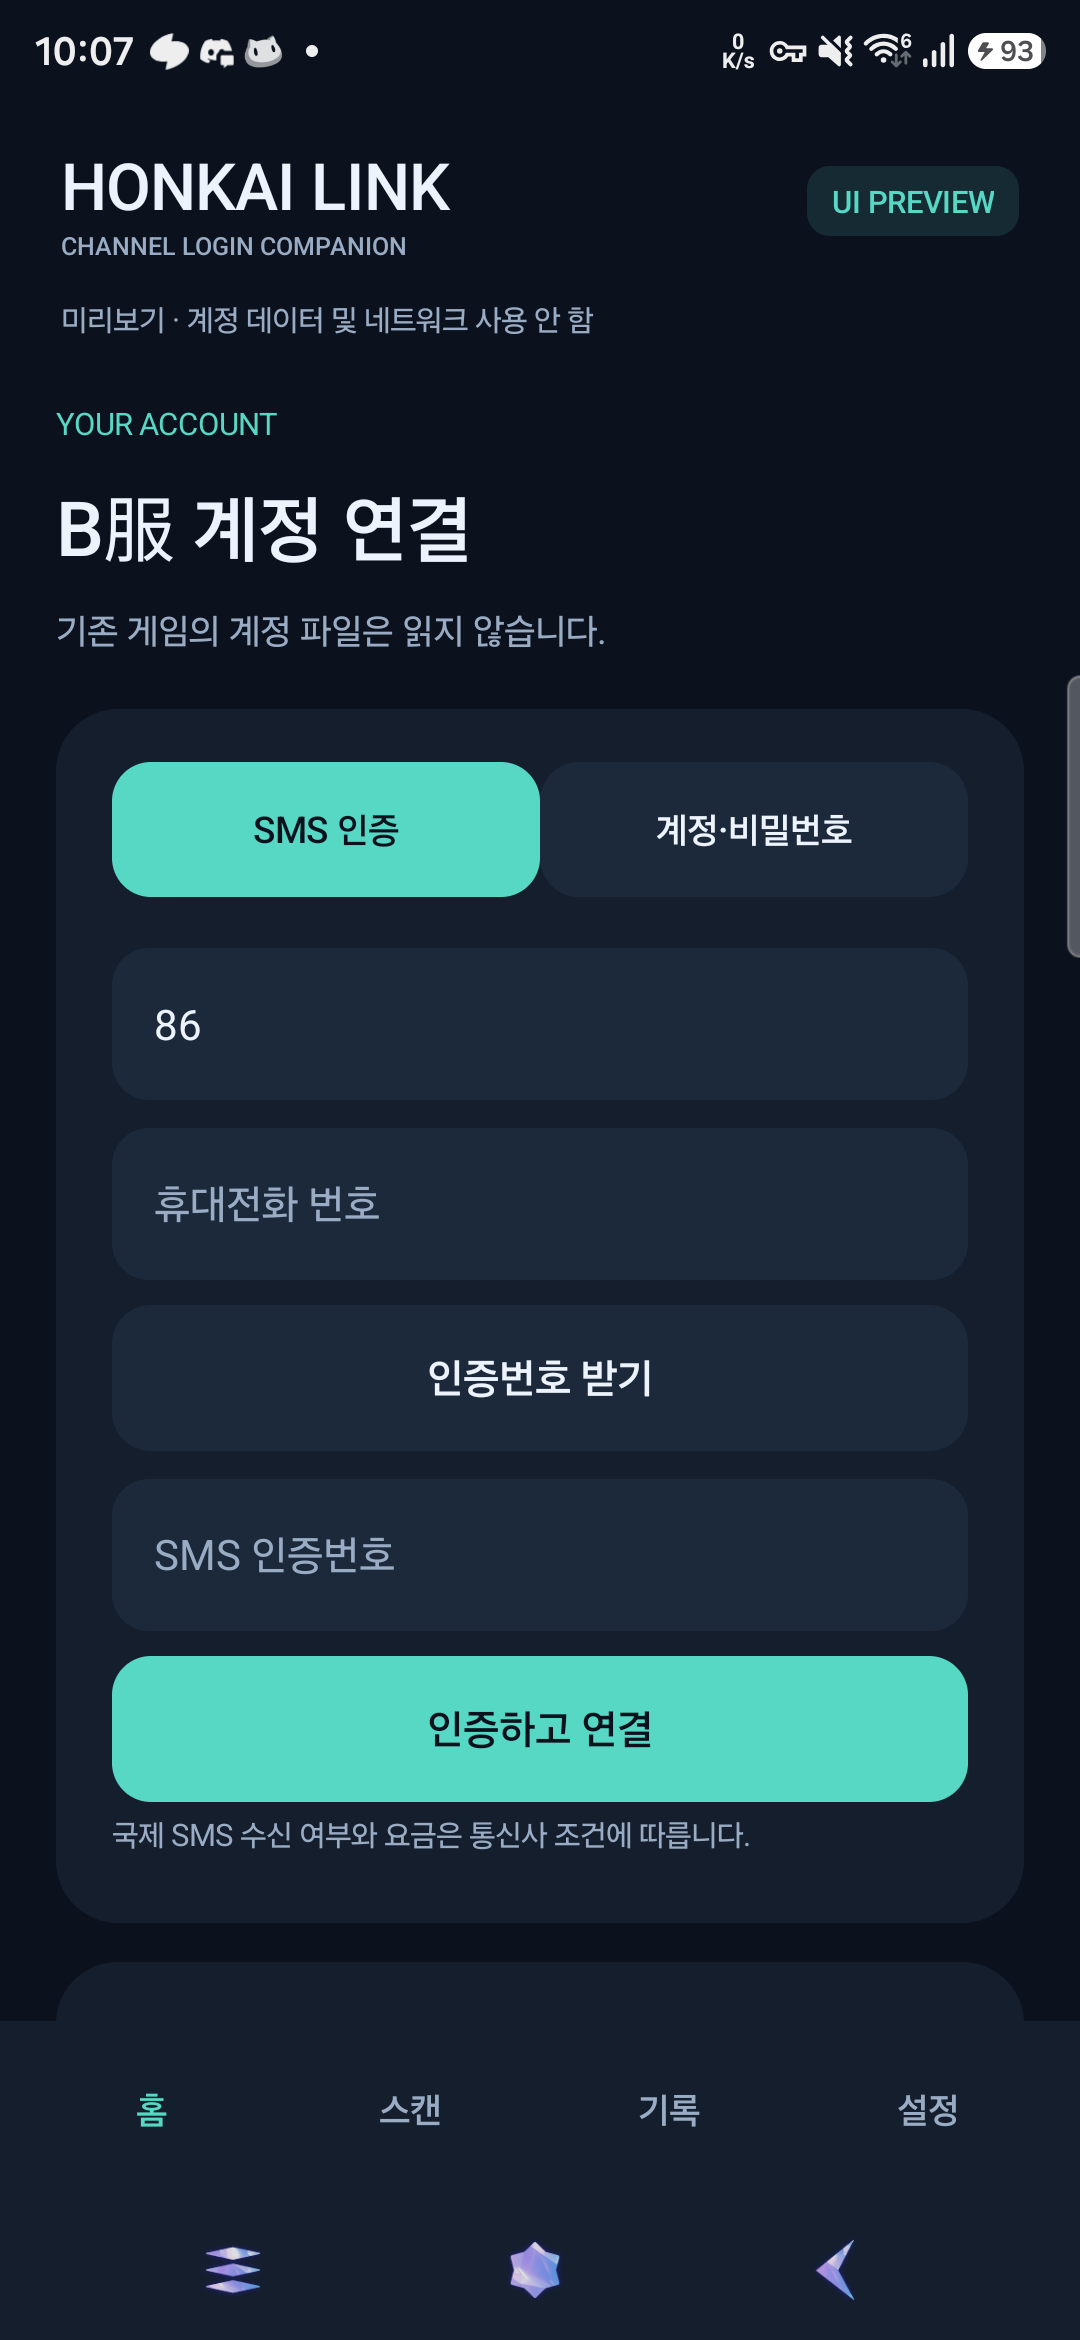
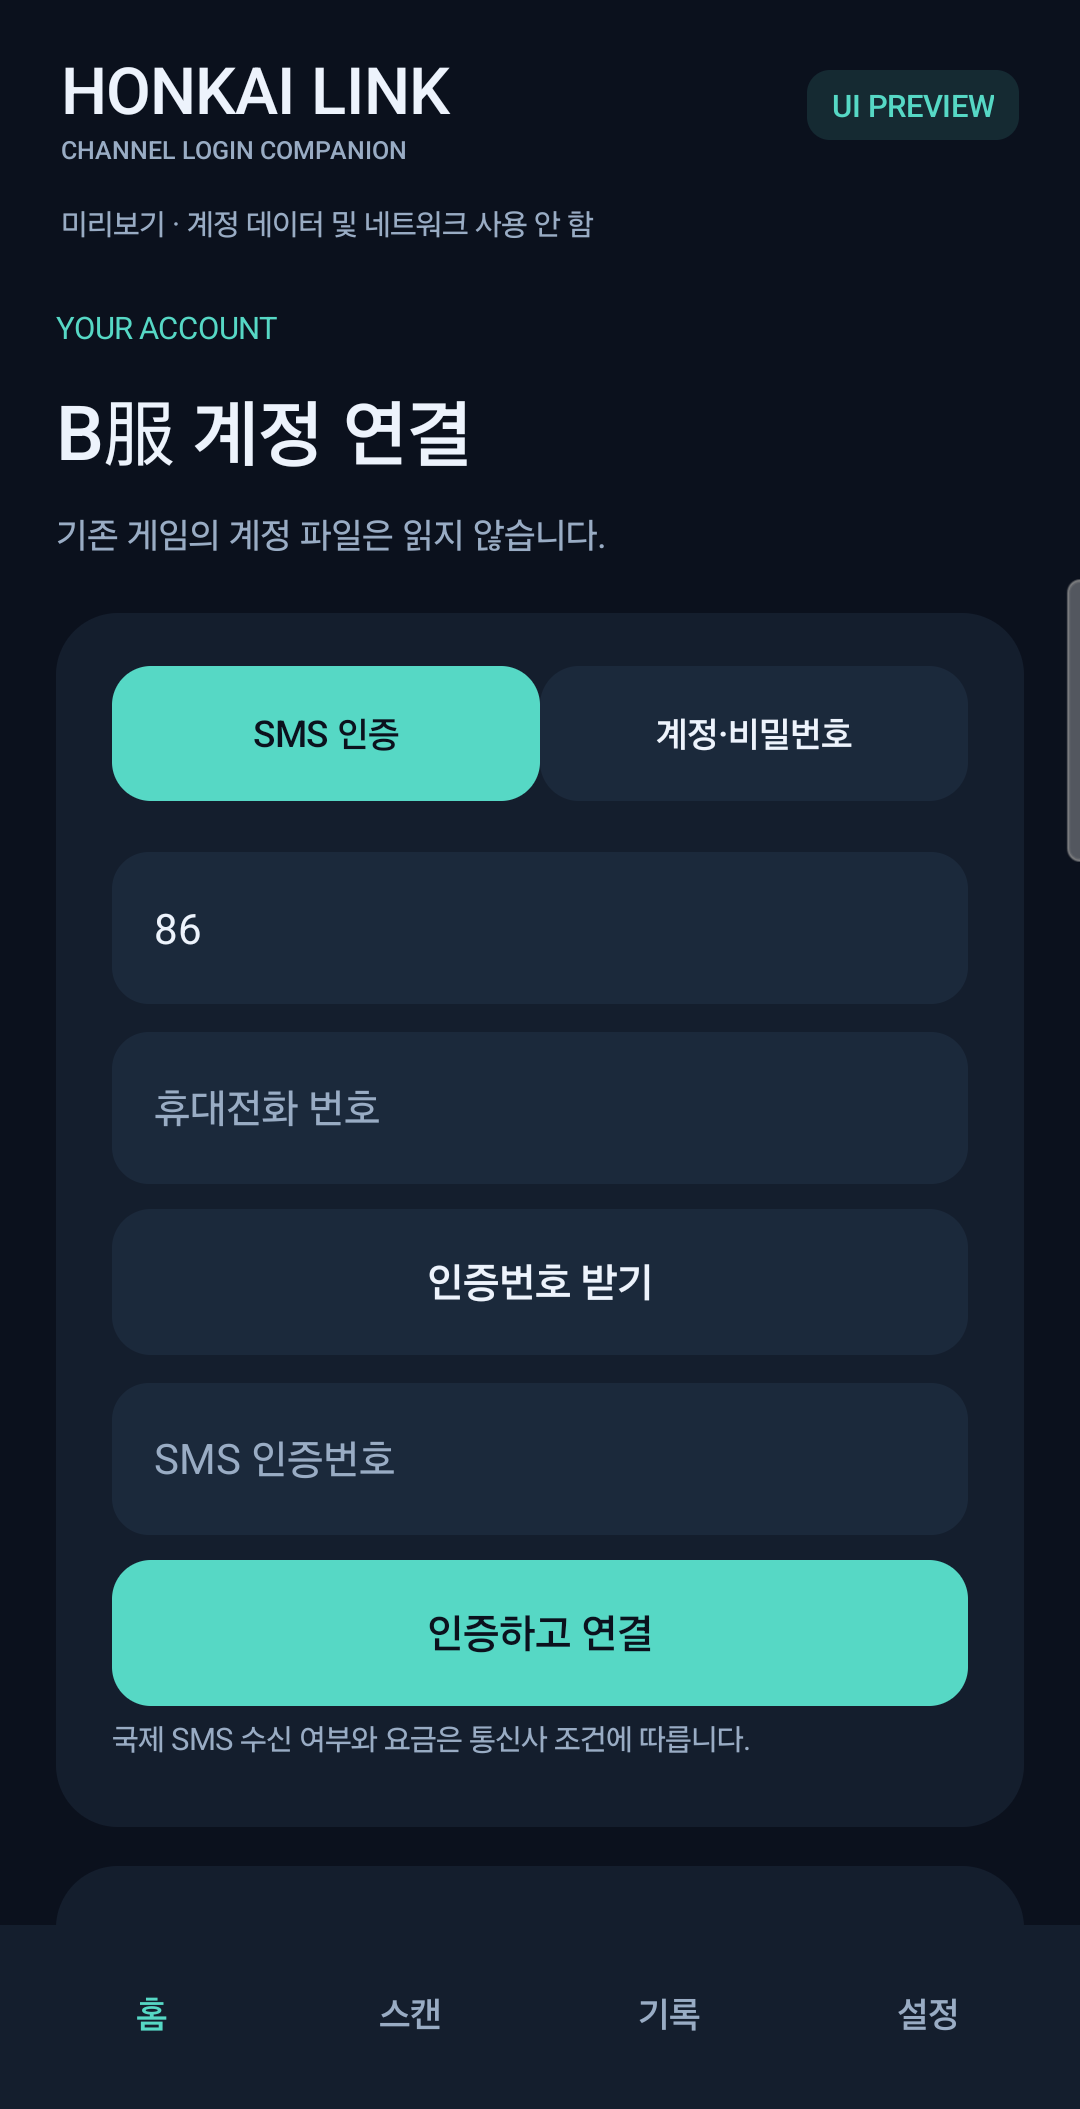
Crop system status and navigation bars from README screenshots

diff --git a/README.md b/README.md
@@ -11,7 +11,7 @@
 
 ## 화면 미리보기
 
-아래는 **0.6 개발판을 실제 기기의 개인정보 없는 `UI PREVIEW` 모드에서 촬영한 화면**입니다. 계정은 데모이며 실제 전화번호·인증번호·로그인 QR을 포함하지 않습니다. 현재 0.7 시험판은 브랜드가 **HONKAI QR**로 바뀌었고, 설정 서비스 동의·게임 버전 변경이 추가되어 일부 문구가 다릅니다. 이미지는 화면 구성을 설명하기 위한 것으로 로그인 성공 증거가 아닙니다.
+아래는 **0.6 개발판을 실제 기기의 개인정보 없는 `UI PREVIEW` 모드에서 촬영한 화면**입니다. 계정은 데모이며 실제 전화번호·인증번호·로그인 QR을 포함하지 않습니다. 현재 0.7 시험판은 브랜드가 **HONKAI QR**로 바뀌었고, 설정 서비스 동의·게임 버전 변경이 추가되어 일부 문구가 다릅니다. 이미지는 화면 구성을 설명하기 위한 것으로 로그인 성공 증거가 아닙니다. 휴대폰 상단 상태바와 하단 시스템 내비게이션 바는 제외했으며 앱 내부 탭은 유지했습니다.
 
 <table>
   <tr>

diff --git a/docs/images/README.md b/docs/images/README.md
@@ -1,7 +1,7 @@
 # README 화면 자료
 
-- home.png / account.png / scan.png: 실제 Android 기기의 0.6 개발판 UI PREVIEW 캡처(1080×2340).
+- home.png / account.png / scan.png: 실제 Android 기기의 0.6 개발판 UI PREVIEW 캡처. 원본 1080×2340에서 시스템 상태바 96px·하단 내비게이션 바 135px만 잘라낸 1080×2109 이미지.
 - 합성 데모 계정, 빈 인증 입력란, 빈 QR 입력란만 사용. 실제 계정 데이터를 읽거나 인증 요청을 보내지 않는 모드.
-- 이미지 수정·성공 화면 합성 없음. 0.7 시험판과 브랜드·설정 문구 차이가 있음.
+- 시스템 바 영역만 크롭했으며 앱 화면의 글자·내용은 수정하지 않음. 성공 화면 합성 없음. 0.7 시험판과 브랜드·설정 문구 차이가 있음.
 - USB 연결 해제로 0.7 신규 캡처는 완료하지 못했으며, 기존의 확인된 공개용 미리보기 캡처를 사용함.
 - 실제 로그인 검증 범위는 TESTS-0.7.ko.md를 참고.
